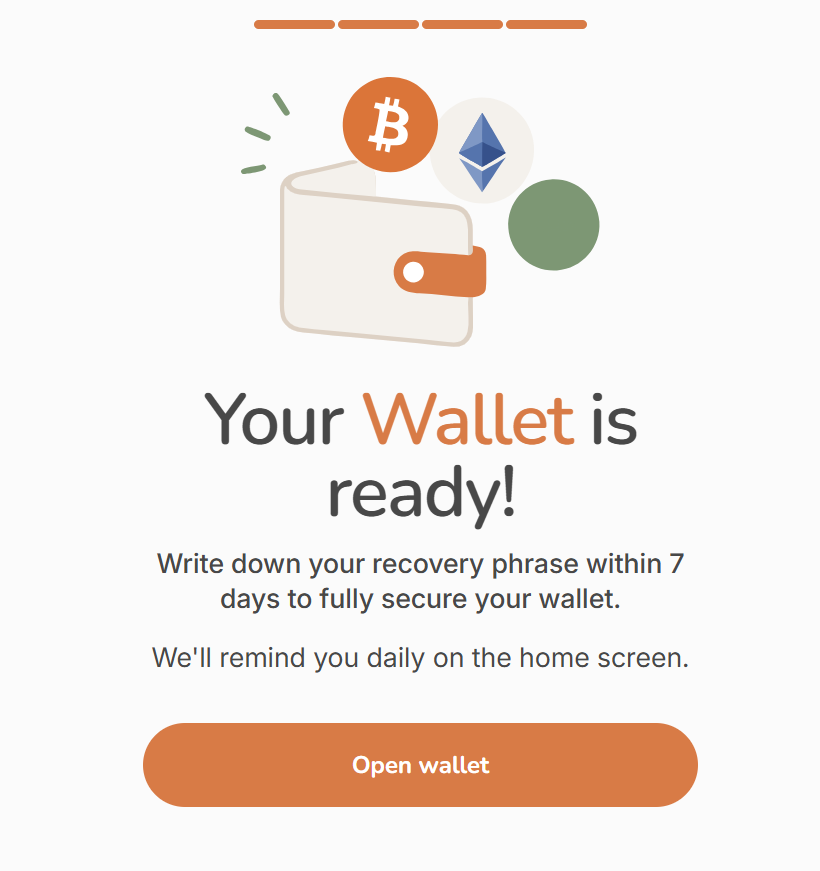
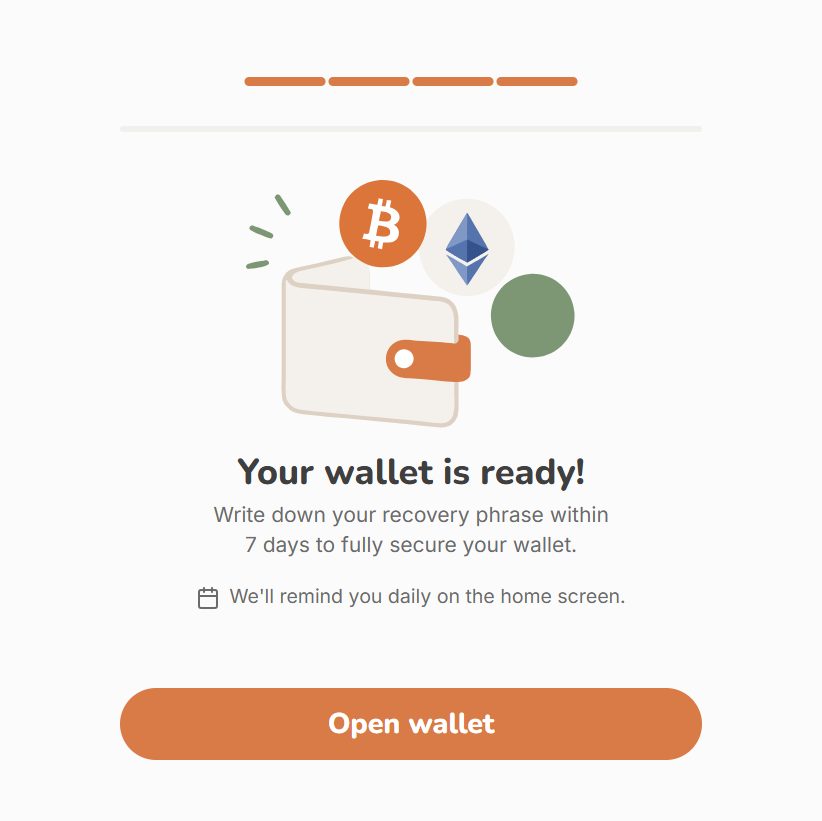
content: retake the Extension screenshots on wallet 1.16.2
Every Bread Wallet capture on the Extension tab, retaken from the Chrome
Web Store build of 1.16.2 with fixed device metrics: sidebar captures at
the real side panel's 540 x 1287, onboarding at 822 wide. E06, E15 and
the sidebar's E16b are shown whole. The two tests that decode every
screenshot get a 30 s timeout. Part of #34.

Changed region(s): [[0.1829, 0.0, 0.8232, 0.7917], [0.122, 0.8222, 0.8232, 0.944], [0.8232, 0.8831, 0.8537, 0.9135]]

diff --git a/src/help-center/content.ts b/src/help-center/content.ts
@@ -179,36 +179,36 @@ export const SCREENSHOT_SIZES: Readonly<Record<string, ScreenshotSize>> = {
   'E01-install-web-store.png': [1783, 363],
   'E01a-install-add-extension.png': [870, 486, 'narrow'],
   'E02-install-pin.png': [870, 487, 'narrow'],
-  'E03-create-get-started.png': [820, 903, 'narrow'],
-  'E04-create-testnet-notice.png': [817, 991, 'narrow'],
-  'E05-create-password.png': [824, 879, 'narrow'],
-  'E06-create-guardian.png': [819, 953, 'narrow'],
-  'E06a-create-wallet-ready.png': [821, 582, 'narrow'],
-  'E07-fund-homepage.png': [547, 909, 'narrow'],
-  'E08-fund-activity.png': [549, 1305, 'narrow'],
-  'E19-guardian-home.png': [530, 1255, 'narrow'],
-  'E20-guardian-settings-menu.png': [529, 1248, 'narrow'],
-  'E21-guardian-settings.png': [528, 1245, 'narrow'],
-  'E22-guardian-choose.png': [530, 1249, 'narrow'],
-  'E23-guardian-review.png': [530, 1246, 'narrow'],
-  'E24-accept-activity.png': [526, 1150, 'narrow'],
-  'E25-accept-pending-tab.png': [530, 1242, 'narrow'],
-  'E26-accept-transfer-card.png': [529, 1251, 'narrow'],
-  'E27-accept-received-tab.png': [593, 1251, 'narrow'],
-  'E28-consume-settings-general.png': [529, 1246, 'narrow'],
-  'E29-consume-auto-consume.png': [529, 1228, 'narrow'],
-  'E30-accept-fails-activity.png': [533, 1195, 'narrow'],
-  'E31-accept-fails-pending-tab.png': [531, 1197, 'narrow'],
-  'E32-guardian-password.png': [534, 1209, 'narrow'],
-  'E33-guardian-processing.png': [532, 1268, 'narrow'],
-  'E34-guardian-rotated.png': [528, 1282, 'narrow'],
-  'E13-restore-welcome.png': [789, 902, 'narrow'],
-  'E14-restore-testnet-notice.png': [764, 993, 'narrow'],
-  'E15-restore-phrase-boxes.png': [820, 813, 'narrow'],
-  'E15a-restore-password.png': [825, 849, 'narrow'],
-  'E16-restore-recovery-choice.png': [820, 1284, 'narrow'],
-  'E16a-restore-wallet-ready.png': [820, 871, 'narrow'],
-  'E16b-restore-everyday-key.png': [1721, 387]
+  'E03-create-get-started.png': [822, 825, 'narrow'],
+  'E04-create-testnet-notice.png': [822, 1002, 'narrow'],
+  'E05-create-password.png': [822, 867, 'narrow'],
+  'E06-create-guardian.png': [822, 1409, 'narrow'],
+  'E06a-create-wallet-ready.png': [822, 444, 'narrow'],
+  'E07-fund-homepage.png': [540, 1287, 'narrow'],
+  'E08-fund-activity.png': [540, 1287, 'narrow'],
+  'E19-guardian-home.png': [540, 1287, 'narrow'],
+  'E20-guardian-settings-menu.png': [540, 1287, 'narrow'],
+  'E21-guardian-settings.png': [540, 1287, 'narrow'],
+  'E22-guardian-choose.png': [540, 1287, 'narrow'],
+  'E23-guardian-review.png': [540, 1287, 'narrow'],
+  'E24-accept-activity.png': [540, 1287, 'narrow'],
+  'E25-accept-pending-tab.png': [540, 1287, 'narrow'],
+  'E26-accept-transfer-card.png': [540, 1287, 'narrow'],
+  'E27-accept-received-tab.png': [540, 1287, 'narrow'],
+  'E28-consume-settings-general.png': [540, 1287, 'narrow'],
+  'E29-consume-auto-consume.png': [540, 1287, 'narrow'],
+  'E30-accept-fails-activity.png': [540, 1287, 'narrow'],
+  'E31-accept-fails-pending-tab.png': [540, 1287, 'narrow'],
+  'E32-guardian-password.png': [540, 1287, 'narrow'],
+  'E33-guardian-processing.png': [540, 1287, 'narrow'],
+  'E34-guardian-rotated.png': [540, 1287, 'narrow'],
+  'E13-restore-welcome.png': [822, 825, 'narrow'],
+  'E14-restore-testnet-notice.png': [822, 1002, 'narrow'],
+  'E15-restore-phrase-boxes.png': [822, 1143, 'narrow'],
+  'E15a-restore-password.png': [822, 867, 'narrow'],
+  'E16-restore-recovery-choice.png': [822, 1161, 'narrow'],
+  'E16a-restore-wallet-ready.png': [822, 821, 'narrow'],
+  'E16b-restore-everyday-key.png': [540, 1287, 'narrow']
 };
 
 export function registerImages(

diff --git a/src/help-center/content.test.ts b/src/help-center/content.test.ts
@@ -656,6 +656,11 @@ describe('fidelity to the FAQ', () => {
    * which is what keeps the set crisp and consistent. The annotation stroke is
    * set from the width so it lands at 3px on screen; that one is checked by eye.
    */
+  /*
+   * This test and the one that checks every file's header decode each screenshot
+   * in the folder, which takes longer than vitest's 5 s default now there are
+   * fifty of them; 30 s leaves room without hiding a hang.
+   */
   it('holds every step screenshot to the capture spec', () => {
     /*
      * Used exactly as captured, not cropped, by Ivan's call (2026-09-18), so
@@ -664,8 +669,10 @@ describe('fidelity to the FAQ', () => {
      * captures E19 to E23, the accept-a-transfer captures E24 to E27 and the
      * Auto Consume captures E28 and E29 and the accept-fails captures E30 and
      * E31 (2026-09-24) and the Guardian switch password, processing and success
-     * captures E32 to E34 (2026-09-25) are used as captured like E07 and E08. Every other capture
-     * is held to it.
+     * captures E32 to E34 (2026-09-25) are used as captured like E07 and E08. The v1.16.2
+     * retake (2026-10-01, issue #34) shoots every sidebar capture at the real side panel's
+     * 540 x 1287, so E07a and the sidebar's E16b join them, and E06 and E15 are shown whole
+     * rather than split, Ivan's call. Every other capture is held to it.
      */
     const FULL_HEIGHT_BY_IVAN = new Set([
       // Phone captures are shown full height too (phone capture spec, 2026-09-24).
@@ -686,9 +693,12 @@ describe('fidelity to the FAQ', () => {
       'M13-restore-recovery-method.png',
       'M14-restore-ready.png',
       'M14a-restore-rotating-key.png',
+      'E06-create-guardian.png',
       'E07-fund-homepage.png',
       'E08-fund-activity.png',
+      'E15-restore-phrase-boxes.png',
       'E16-restore-recovery-choice.png',
+      'E16b-restore-everyday-key.png',
       'E19-guardian-home.png',
       'E20-guardian-settings-menu.png',
       'E21-guardian-settings.png',
@@ -750,7 +760,7 @@ describe('fidelity to the FAQ', () => {
       }
       expect(bytes.length, `${name}: over the 400 KB ceiling`).toBeLessThanOrEqual(400 * 1024);
     }
-  });
+  }, 30_000);
 
   it('carries the narrow tag through to the image the renderer gets', () => {
     const files = { './assets/screenshots/menu.png': '/menu.png', './assets/screenshots/page.png': '/page.png' };
@@ -778,7 +788,7 @@ describe('fidelity to the FAQ', () => {
         helpCenterArticleImages[name]?.height
       ]);
     }
-  });
+  }, 30_000);
 
   it('ships each image pixel for pixel as delivered, never larger, at the size its header gives', () => {
     const repoRoot = fileURLToPath(new URL('../..', import.meta.url));

diff --git a/tasks/screenshot-capture-sheet.md b/tasks/screenshot-capture-sheet.md
@@ -9,11 +9,49 @@ given screenshot came from, and "the store release" stops meaning anything as so
 
 | Run | Version | State |
 |---|---|---|
-| Extension | **1.16.1** | in progress, from 2026-09-16 |
-| Mobile | record it from Settings when the run starts | not started; separate run, later build |
+| Extension | **1.16.1** | done, 2026-09-16 to 2026-09-25, by hand |
+| Extension retake (issue #34) | **1.16.2** | done, 2026-10-01, automated; see *Extension retake on 1.16.2* below |
+| Mobile | 1.16.1 | done, 2026-09-24, by hand; the 1.16.2 retake is a separate run |
 
 1.16.1 is what Settings reports in the build being captured. It supersedes the 1.16.0 this sheet carried,
 which came from the store listing — the installed build is the authority, not the listing.
+
+## Extension retake on 1.16.2 (issue #34, 2026-10-01)
+
+Every Bread Wallet capture on the Extension tab was retaken on **1.16.2**, read in three places that
+agree: **Settings** (*Version 1.16.2*), the Chrome Web Store install in the capture profile
+(`1.16.2_0`), and the `v1.16.2` tag of 0xMiden/wallet. File names and IDs are unchanged.
+
+**Method.** Real Google Chrome on Windows, in a capture profile of its own with nothing but Bread
+Wallet installed from the Web Store and a throwaway testnet wallet. A script drives it over a private
+pipe, with Chrome's sandbox on and none of the automation tool's default switches, and checks the
+browser's command line before every run. Each page gets fixed device metrics, asserted before the file
+is saved, so a capture comes out the same size every run:
+
+| Surface | Viewport, CSS px | Scale | File |
+|---|---|---|---|
+| Sidebar (E07 onward) | 360 x 858, the real side panel's size | 1.5 | **540 x 1287** |
+| Onboarding page (E03 to E06b, E13 to E16a) | 1360 x 1100, cropped to a 548 px centred column | 1.5 | **822** wide |
+
+The sidebar is captured by opening the side panel's own page in a tab at the panel's size. Checked
+against the real side panel opened from the toolbar: the two are pixel-identical (0 differing pixels),
+both 540 px wide. **540 px is the sidebar width from this run on**, approved by Ivan 2026-10-01; it
+replaces the 526 to 593 px of the hand captures.
+
+Sizes from this run, which supersede the sizes given under each position above:
+
+- E03 822 x 825 · E04 822 x 1002 · E05 822 x 867 · E06 822 x 1409 · E06a 822 x 444
+- E06b-create-help-improve 822 x 842 (new: **Help improve Wallet**, between **Creating your wallet…** and
+  **Your wallet is ready!**)
+- E13 822 x 825 · E14 822 x 1002 · E15 822 x 1143 (boxes empty) · E15a 822 x 867 · E16 822 x 1161 ·
+  E16a 822 x 821
+- E07, E07a-fund-funding (new: the card showing **Funding**), E08, E16b, E19 to E34: 540 x 1287 each.
+  E16b is now the sidebar showing **Rotating your everyday key**, which is where 1.16.2 shows it.
+
+E06, E15 and E16b are shown whole rather than split (Ivan, 2026-10-01). No capture carries a box.
+E01, E01a and E02 (Chrome's own screens) were not retaken. A captured **Choose your import type**
+page (restore, after the testnet notice) is held until the recovery vocabulary is decided, so Q2's
+answer below no longer holds for 1.16.2: the page is back.
 
 ## Image spec — keep this open while capturing
 
